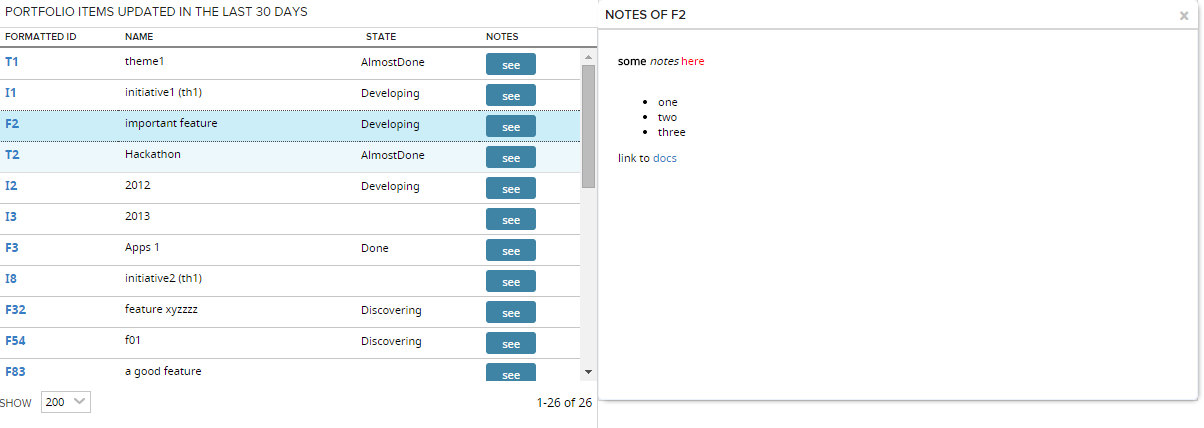
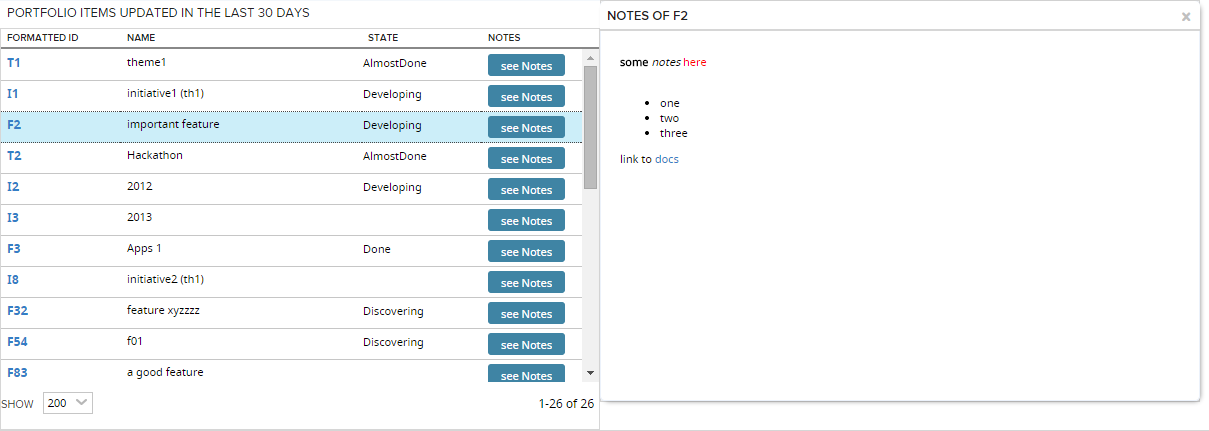
changed button's text

diff --git a/deploy/App.html b/deploy/App.html
@@ -7,7 +7,7 @@
 
     <script type="text/javascript">
         Rally.onReady(function () {
-                Ext.define("CustomApp",{extend:"Rally.app.App",componentCls:"app",launch:function(){var panel=Ext.create("Ext.panel.Panel",{layout:"hbox",itemId:"parentPanel",componentCls:"panel",items:[{xtype:"panel",title:"Portfolio Items updated in the last 30 days",width:600,itemId:"childPanel1"},{xtype:"panel",width:600,itemId:"childPanel2"}]});this.add(panel),this.down("#childPanel2").add({id:"cp2",padding:10,width:600,height:400,overflowX:"auto",overflowY:"auto",html:"No artifact is selected"});var startDate=new Date(new Date-2592e6).toISOString(),filters=[{property:"LastUpdateDate",operator:">=",value:startDate}],artifacts=Ext.create("Rally.data.wsapi.artifact.Store",{models:["PortfolioItem/Theme","PortfolioItem/Initiative","PortfolioItem/Feature"],fetch:["FormattedID","Name","State","Notes"],autoLoad:!0,filters:filters,listeners:{load:this._onDataLoaded,scope:this}})},_onDataLoaded:function(store,data){this._customRecords=[],_.each(data,function(artifact,index){this._customRecords.push({_ref:artifact.get("_ref"),FormattedID:artifact.get("FormattedID"),Name:artifact.get("Name"),State:artifact.get("State"),Notes:artifact.get("Notes")})},this),this._createGrid(store,data)},_createGrid:function(store,data){var that=this,g=Ext.create("Rally.ui.grid.Grid",{itemId:"g",store:store,enableEditing:!1,showRowActionsColumn:!1,columnCfgs:[{text:"Formatted ID",dataIndex:"FormattedID"},{text:"Name",dataIndex:"Name"},{text:"State",dataIndex:"State"},{text:"Notes",renderer:function(v,m,r){var id=Ext.id();return Ext.defer(function(){Ext.widget("button",{renderTo:id,text:"see",width:50,handler:function(){that._displayNotes(data,r.data)}})},50),Ext.String.format('<div id="{0}"></div>',id)}}],height:400});this.down("#childPanel1").add(g)},_displayNotes:function(artifactList,artifact){console.log("artifact",artifact.Notes);var dialog=Ext.create("Rally.ui.dialog.Dialog",{draggable:!1,closable:!0,padding:10,width:600,height:400,overflowX:"auto",overflowY:"auto",title:"Notes of "+artifact.FormattedID,items:{xtype:"component",html:artifact.Notes,padding:10}});this.down("#childPanel2").add(dialog),Ext.getCmp("cp2").update(""),dialog.show()}});
+                Ext.define("CustomApp",{extend:"Rally.app.App",componentCls:"app",launch:function(){var panel=Ext.create("Ext.panel.Panel",{layout:"hbox",itemId:"parentPanel",componentCls:"panel",items:[{xtype:"panel",title:"Portfolio Items updated in the last 30 days",width:600,itemId:"childPanel1"},{xtype:"panel",width:600,itemId:"childPanel2"}]});this.add(panel),this.down("#childPanel2").add({id:"cp2",padding:10,width:600,height:400,overflowX:"auto",overflowY:"auto",html:"No artifact is selected"});var startDate=new Date(new Date-2592e6).toISOString(),filters=[{property:"LastUpdateDate",operator:">=",value:startDate}],artifacts=Ext.create("Rally.data.wsapi.artifact.Store",{models:["PortfolioItem/Theme","PortfolioItem/Initiative","PortfolioItem/Feature"],fetch:["FormattedID","Name","State","Notes"],autoLoad:!0,filters:filters,listeners:{load:this._onDataLoaded,scope:this}})},_onDataLoaded:function(store,data){this._customRecords=[],_.each(data,function(artifact,index){this._customRecords.push({_ref:artifact.get("_ref"),FormattedID:artifact.get("FormattedID"),Name:artifact.get("Name"),State:artifact.get("State"),Notes:artifact.get("Notes")})},this),this._createGrid(store,data)},_createGrid:function(store,data){var that=this,g=Ext.create("Rally.ui.grid.Grid",{itemId:"g",store:store,enableEditing:!1,showRowActionsColumn:!1,columnCfgs:[{text:"Formatted ID",dataIndex:"FormattedID"},{text:"Name",dataIndex:"Name"},{text:"State",dataIndex:"State"},{text:"Notes",renderer:function(v,m,r){var id=Ext.id();return Ext.defer(function(){Ext.widget("button",{renderTo:id,text:"see Notes",handler:function(){that._displayNotes(data,r.data)}})},50),Ext.String.format('<div id="{0}"></div>',id)}}],height:400});this.down("#childPanel1").add(g)},_displayNotes:function(artifactList,artifact){console.log("artifact",artifact.Notes);var dialog=Ext.create("Rally.ui.dialog.Dialog",{draggable:!1,closable:!0,padding:10,width:600,height:400,overflowX:"auto",overflowY:"auto",title:"Notes of "+artifact.FormattedID,items:{xtype:"component",html:artifact.Notes,padding:10}});this.down("#childPanel2").add(dialog),Ext.getCmp("cp2").update(""),dialog.show()}});
 
             Rally.launchApp('CustomApp', {
                 name:"Notes of Portfolio Items",

diff --git a/App.js b/App.js
@@ -81,8 +81,7 @@ Ext.define('CustomApp', {
                             Ext.defer(function () {
                                 Ext.widget('button', {
                                     renderTo: id,
-                                    text: 'see',
-                                    width: 50,
+                                    text: 'see Notes',
                                     handler: function () {
                                         that._displayNotes(data, r.data);
                                     }

diff --git a/deploy/App-uncompressed.html b/deploy/App-uncompressed.html
@@ -90,8 +90,7 @@
                             Ext.defer(function () {
                                 Ext.widget('button', {
                                     renderTo: id,
-                                    text: 'see',
-                                    width: 50,
+                                    text: 'see Notes',
                                     handler: function () {
                                         that._displayNotes(data, r.data);
                                     }
